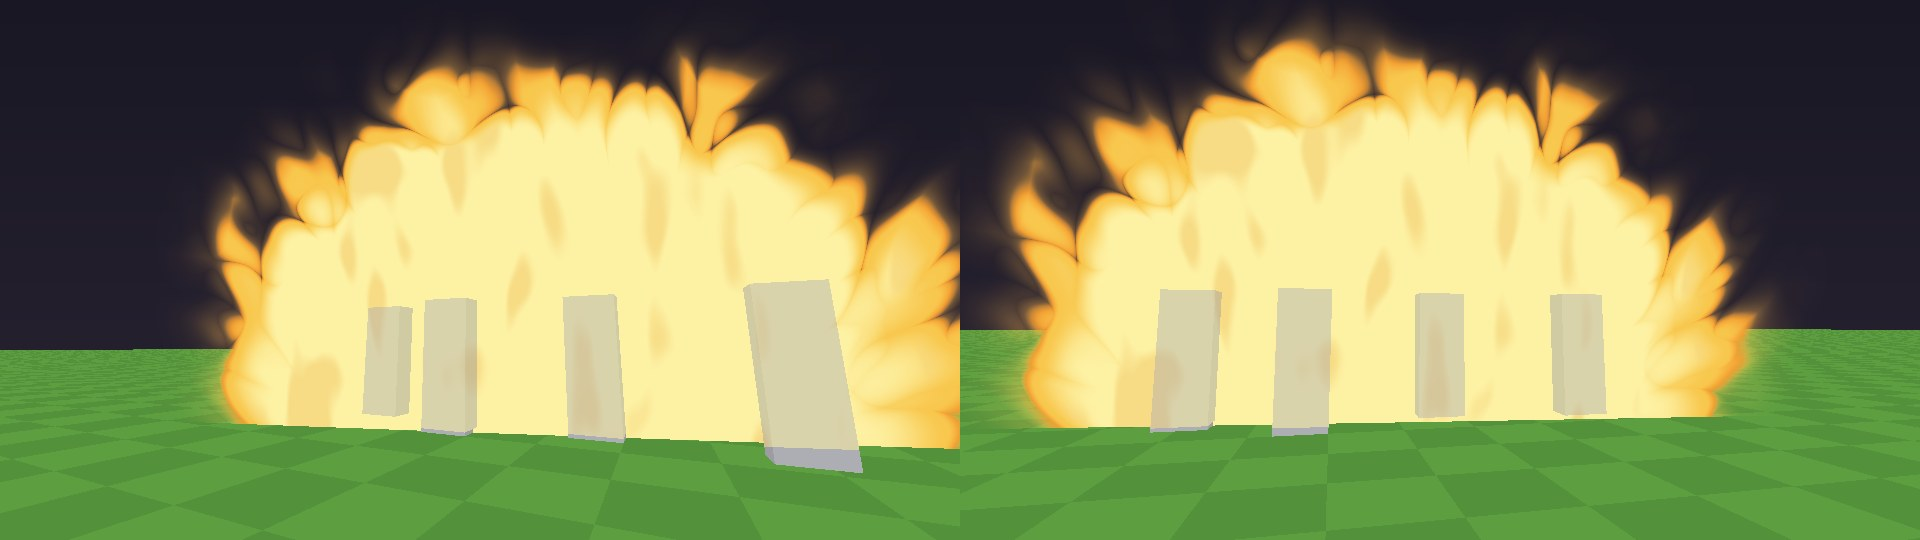
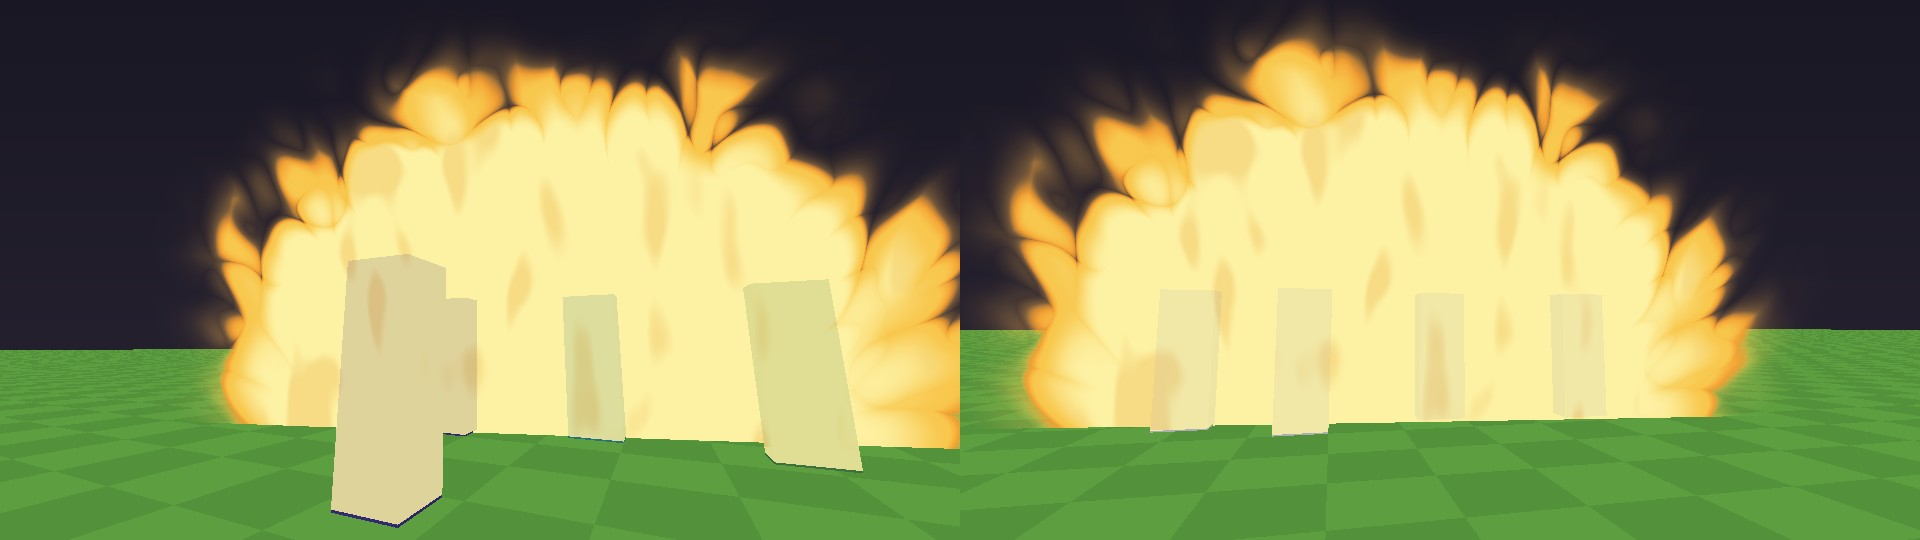
Mera anime: chorro de St. Elmo en olas, cruz fina de los dedos, víctimas tenues en la hoguera y estelas del Hiken tendidas
- El chorro dorado de St. Elmo (chorro con paleta 3) se dibuja plano: cuña dorada con olas que se rizan en los
  cantos y franjas pálidas que las siguen (2:09-2:10).
- La cruz de los dedos de Jūjika, con brazos de 1 a 6 (grosor entre 0,15 y 0,18 brazos).
- En la hoguera de Hidaruma los que arden se tapan en un 85 %, también por debajo de la lámina.
- Receta nueva de las estelas del Hiken (docs): casi tendidas, centro hasta 13 bloques a cada lado, dos diagonales.

Claude-Session: https://claude.ai/code/session_01TTf7fnrStK2iXDsozaVCTJ

diff --git a/docs/estilo-anime.md b/docs/estilo-anime.md
@@ -128,10 +128,12 @@ Paleta de cada forma cuando `VolStyle.y` es 0: bola 2 (el sol, 6), puño 1, colu
   paleta 13 es la cúpula roja del final de Entei: el centro en el suelo, para que se vea media esfera. Con la paleta
   17 es el sol mientras nace: la misma esfera con una orilla ancha de llamas pequeñas (3:03-3:08).
 - **Cruz (6)**: en anime hay dos, según el brazo (`prm.x`):
-  - **Menos de 0,8: la cruz de los dedos** (2:14). Un «+» de brazos iguales, gordo y liso, amarillo limón con el
+  - **Menos de 0,8: la cruz de los dedos** (2:14). Un «+» de brazos iguales, finos y lisos, amarillo limón con el
     centro pálido y mucho resplandor (paleta 7). Centrado un cuarto de brazo por encima del origen: va de −0,75 a
-    1,25 brazos en vertical y de −1 a 1 en horizontal. El grosor queda siempre entre 0,27 y 0,32 brazos, pida lo que pida el emisor. Medidas de la serie: brazo
-    0,35, justo delante de los dedos.
+    1,25 brazos en vertical y de −1 a 1 en horizontal. El grosor (medio ancho del brazo) queda siempre entre 0,15 y
+    0,18 brazos, pida lo que pida el emisor: cada brazo es unas seis veces más largo que ancho, como en el 2:14 (con
+    0,27 a 0,32, de cerca era un «+» gordo de botiquín). Medidas de la serie: brazo 0,35 a 0,45, justo delante de
+    los dedos. Referencia del banco: `docs/banco/cruz-dedos.jpg`.
   - **0,8 o más: la cruz de llamas** (2:22). La cruz latina de siempre (el palo de abajo, más largo), hecha de
     llamas pequeñas: una soga dorada de bultos con la orilla pálida y un resplandor ancho (paleta 18). Medidas: brazo
     1,8 a 2,2. El grosor queda siempre entre 0,10 y 0,13 brazos, pida lo que pida el emisor.
@@ -141,13 +143,18 @@ Paleta de cada forma cuando `VolStyle.y` es 0: bola 2 (el sol, 6), puño 1, colu
   el chorro que se abre de siempre (las llamas pequeñas). Con `prm.z` = 1 es el de primera persona: fino en la mano
   y abriéndose con la distancia, que visto desde los ojos es una franja rayada de la mano a donde se apunta (el huso,
   visto a lo largo, era una semilla); va con `nearFade` 0,45.
-- **Chorro (5) con la paleta 3: la banda dorada de St. Elmo** (2:09-2:10). Una masa dorada lisa con el canto en olas,
-  unas pocas líneas amarillo pálido `#fde68f` finas y largas tendidas a lo largo, a trechos (ni franjas anchas ni
-  manchas), y la punta redonda. `prm.z` (el grosor al salir, en partes del
-  final) decide la silueta: 0,65 para la banda ancha del barrido (largo 9 y radio 1,0 a 1,3), que es casi igual de
-  gruesa de punta a punta. La llama del antebrazo mientras carga (2:09) es este mismo chorro, corto y gordo, hacia
-  atrás (largo 3,2, radio 1,1 y `prm.z` 0,35). Una fila de bolas con la paleta 18 se probó y en el juego se veía
-  como una oruga de discos, mucho más lejos de la serie.
+- **Chorro (5) con la paleta 3: la banda dorada de St. Elmo** (2:08,5-2:10,5). En anime no se recorre como un
+  volumen: es un dibujo plano en una lámina que contiene el eje del chorro y mira a la cámara. Una cuña dorada que
+  sale de la mano con el grosor `prm.z` (en partes del final), se abre hasta un radio entero y acaba redonda; por
+  los cantos de arriba y de abajo, olas: brazos gordos que salen del canto inclinados hacia fuera de la mano y se
+  rizan hacia delante como una ola que rompe, con el hueco de cielo entre una y otra, que nacen cerca de la mano y
+  corren hacia fuera creciendo (una cada 0,6 radios de largo, entre 3 y 12 por canto). Dorada por dentro, pálida
+  `#fdeaa3` junto al contorno de cada ola y en franjas onduladas que siguen las olas. 0,65 para la banda ancha del
+  barrido (largo 9 y radio 1,0 a 1,3), que es casi igual de gruesa de punta a punta. La llama del antebrazo
+  mientras carga (2:09) es este mismo chorro, corto, que sale de la mano hacia atrás y hacia fuera del cuerpo (largo
+  3,2, radio 1,1 y `prm.z` 0,35; nunca hacia el hombro: entonces cruzaba el cuerpo y se veía una salchicha dorada
+  alrededor de Ace). Antes era el chorro recorrido, una salchicha lisa con cuatro líneas; una fila de bolas con la
+  paleta 18 se veía como una oruga de discos. Referencia del banco: `docs/banco/st-elmo.jpg`.
 - **Lanza (7)**: un trazo largo y limpio que se abre poco a poco desde una punta afilada, con dos rayas sueltas al
   lado. `prm.z` = 0: afilada por delante (las lanzas de Shiranui, 2:11). `prm.z` = 1: afilada por detrás y ancha por
   delante (las balas de Higan, 0:57). `prm.z` = 2: la columna de St. Elmo (2:11-2:12), afilada por delante pero que
@@ -175,8 +182,9 @@ Paleta de cada forma cuando `VolStyle.y` es 0: bola 2 (el sol, 6), puño 1, colu
   que por arriba y por los lados se abre en lenguas anchas separadas por muescas en punta: naranja en el filo,
   dorado un poco más adentro y luego pálido; por fuera, un resplandor corto que sobre el cielo oscuro se ve pardo,
   como en la serie. Por dentro, manchas doradas blandas y alargadas hacia arriba, como lenguas pequeñas, que suben.
-  Lo que hay dentro de la hoguera y no es el suelo (los que arden) se ve como una sombra a través del fuego, esté
-  delante o detrás de la lámina; para eso `VolStyle.z` (el segundo número de `MeraVolumes.palette(19, …)`) dice a
+  Lo que hay dentro de la hoguera y no es el suelo (los que arden) se ve como una sombra tenue a través del fuego
+  (el fuego los tapa en un 85 %; con un 55 % se veían enteros, solo desteñidos), esté delante o detrás de la lámina
+  o por debajo de ella (los pies); para eso `VolStyle.z` (el segundo número de `MeraVolumes.palette(19, …)`) dice a
   qué altura sobre el suelo está el centro (1,6); con 0 no hay sombras ni corte por el suelo. Con la cámara dentro,
   un velo pálido por toda la vista. Antes era una bola recorrida y salía como bolsas redondas con un filo duro.
   Una sola bola que los cubra a todos (centro en el medio del grupo, a 1,6 de alto; radio 4,5); con varias bolas
@@ -257,7 +265,7 @@ En estilo anime:
 
 | Técnica | Paleta | Cómo es en el vídeo |
 | --- | --- | --- |
-| Hiken | 1, 16 y 14 | Un puño enorme y redondo: masa roja, borde amarillo, líneas amarillas entre los dedos. Va dibujado encima de su cuerpo de fuego, con su propio contorno (0:32). Detrás, un cuerpo de fuego que se ensancha hasta el doble del puño (un cometa, 0:34), con el amarillo muy ancho (de lado se ve casi tanto amarillo como rojo) y el borde de dentro subiendo y bajando como las llamas, bandas amarillas anchas que cruzan la masa roja a lo largo y la parten en dos o tres manchas (0:33; las pinta el sombreador, solo en el cuerpo de fuego y no en el puño) y cintas amarillas finas que se rizan alrededor. Al salir del brazo, masas rojas con manchas negras (bolas con paleta 1, 0:24). El golpe es una media bola roja y limpia con el filo amarillo (bola con paleta 16, 0:36) y, para quien queda dentro, la pantalla roja con cuñas amarillas y esquirlas negras (otra bola en el mismo sitio con paleta 1 y `VolStyle.w` de 2 a 3, que solo pone el fotograma, 0:37; ese fotograma se dibuja el último de todos los volúmenes, para que ningún otro fuego lo tape). Después quedan tres segundos y medio de lo que deja el golpe (0:38-0:41, referencia del banco en `docs/banco/final-hiken.jpg`), colocado cada fotograma de cara a quien mira: con `v` la dirección horizontal de la cámara al golpe, `r` su derecha, `g` el suelo bajo el golpe y `s` la distancia horizontal de la cámara al golpe partida por 19 (entre 0,7 y 1,2), que multiplica todas las medidas. Un tronco rojo vertical que sube del golpe (lanza con paleta 14, ancho del borde 0,30 y `prm.z` = 2, largo 30, radio 1,4, centro a 15,25 sobre el suelo, apenas inclinada); siete estelas largas que se cruzan en aspa por todo el cielo a distintas alturas (lanzas con paleta 14, ancho del borde 0,30 y `prm.z` = 2, largo 36 a 48, radio 0,55 a 0,80, altura de 2 a 24, hasta 5 bloques a cada lado y de 1 por delante a 6 por detrás del golpe, con 18 grados de inclinación y 8 de giro como mucho, y tres en diagonal, la segunda, la cuarta y la sexta, a 22-32 grados); un aro fino y pálido, inclinado, a media altura del tronco (anillo con paleta 11, radio 6, alto 0,3 y medio grosor 0,14, a 10 sobre el suelo, con el eje girado 65 grados respecto a la cámara y levantado 0,2 radianes); y nueve bolas de polvo blanco a ras de suelo a los lados del tronco (bolas con `prm.y` = 1, radio 1,8 a 3). Antes eran 10 chorros con rumbo al azar, tres llamas finas y un tronco por donde pasó el puño, y desde atrás se veía un revoltijo; después siete chorros gordos y rojos, apiñados en una franja, con un tronco demasiado grueso; y después nueve estelas finas casi paralelas, que no se cruzaban como en el 0:38. El golpe del Hiken no se enfría en humo blanco: la bola sigue siendo fuego y se apaga pronto (ya no está cuando se ven los chorros). |
+| Hiken | 1, 16 y 14 | Un puño enorme y redondo: masa roja, borde amarillo, líneas amarillas entre los dedos. Va dibujado encima de su cuerpo de fuego, con su propio contorno (0:32). Detrás, un cuerpo de fuego que se ensancha hasta el doble del puño (un cometa, 0:34), con el amarillo muy ancho (de lado se ve casi tanto amarillo como rojo) y el borde de dentro subiendo y bajando como las llamas, bandas amarillas anchas que cruzan la masa roja a lo largo y la parten en dos o tres manchas (0:33; las pinta el sombreador, solo en el cuerpo de fuego y no en el puño) y cintas amarillas finas que se rizan alrededor. Al salir del brazo, masas rojas con manchas negras (bolas con paleta 1, 0:24). El golpe es una media bola roja y limpia con el filo amarillo (bola con paleta 16, 0:36) y, para quien queda dentro, la pantalla roja con cuñas amarillas y esquirlas negras (otra bola en el mismo sitio con paleta 1 y `VolStyle.w` de 2 a 3, que solo pone el fotograma, 0:37; ese fotograma se dibuja el último de todos los volúmenes, para que ningún otro fuego lo tape). Después quedan tres segundos y medio de lo que deja el golpe (0:38-0:41, referencia del banco en `docs/banco/final-hiken.jpg`), colocado cada fotograma de cara a quien mira: con `v` la dirección horizontal de la cámara al golpe, `r` su derecha, `g` el suelo bajo el golpe y `s` la distancia horizontal de la cámara al golpe partida por 19 (entre 0,7 y 1,2), que multiplica todas las medidas. Un tronco rojo vertical que sube del golpe (lanza con paleta 14, ancho del borde 0,30 y `prm.z` = 2, largo 30, radio 1,4, centro a 15,25 sobre el suelo, apenas inclinada); siete estelas largas que atraviesan todo el cielo casi tendidas, a distintas alturas, y se cruzan lejos del tronco (lanzas con paleta 14, ancho del borde 0,30 y `prm.z` = 2, largo 40 a 54, radio 0,60 a 0,90, altura de 2 a 24, con el centro hasta 13 bloques a cada lado y de 1 por delante a 6 por detrás del golpe, con 7 grados de inclinación y 8 de giro como mucho, y dos en diagonal, la segunda y la quinta, a 12-18 grados); un aro fino y pálido, inclinado, a media altura del tronco (anillo con paleta 11, radio 6, alto 0,3 y medio grosor 0,14, a 10 sobre el suelo, con el eje girado 65 grados respecto a la cámara y levantado 0,2 radianes); y nueve bolas de polvo blanco a ras de suelo a los lados del tronco (bolas con `prm.y` = 1, radio 1,8 a 3). Antes eran 10 chorros con rumbo al azar, tres llamas finas y un tronco por donde pasó el puño, y desde atrás se veía un revoltijo; después siete chorros gordos y rojos, apiñados en una franja, con un tronco demasiado grueso; después nueve estelas finas casi paralelas, que no se cruzaban como en el 0:38; y después siete con el centro a menos de 5 bloques del tronco y tres diagonales empinadas, que en el juego salían en estrella desde el tronco. El golpe del Hiken no se enfría en humo blanco: la bola sigue siendo fuego y se apaga pronto (ya no está cuando se ven los chorros). |
 | Kagerō | 15 y 2 | Un haz estrecho que acaba en punta, naranja con rayas rojas y el filo amarillo (chorro con radio pedido 2,2 o más, 0:02); al dar en el blanco, una nube blanca y, el primer medio segundo, bolas amarillas con el borde rojo anaranjado (bolas con paleta 2, de 1,6 a 2,4 de radio, 0:17). |
 | Higan | 11 | Cuñas amarillo pálido con el filo dorado blando: nacen en punta junto a Ace y se abren hacia delante (lanza con `prm.z` = 1, sin bola en la cabeza). |
 | Hibashira | 10, 9, 20 y 22 | Primero el remolino: un aro rojo que gira alrededor de Ace a la altura de la cintura, con llamas amarillas en el brazo (anillo con `prm.w` = 2), que va creciendo hasta ser casi todo llama amarilla pálida (`prm.w` de 2 a 2,49). Al salir la columna, quien está dentro ve la pantalla roja con llamas amarillas (1:14). Después el haz recto amarillo pálido, fino y alto (columna con radio pedido 2,1), pegado a él un muro de humo melocotón (anillo con `prm.w` = 1,25 y paleta 22) y detrás una masa roja con racimos de llamas amarillas (anillo con `prm.w` = 1,25 y paleta 20, 1:16-1:18). |
@@ -265,8 +273,8 @@ En estilo anime:
 | Hotarubi | 5 | Bolas lisas y redondas (no llamas), de 0,2 a 0,45 de radio: verdes en la orilla, casi blancas en el centro y con un halo verde suave. Una bola (forma 0) con paleta 5 sale ya así. |
 | Hidaruma | 12, 16, 3 y 19 | Sobre el que arde, unas 13 cuchillas de fuego afiladas, amarillas con el filo naranja y el centro pálido, sueltas, inclinadas hacia el mismo lado y repartidas por delante del cuerpo y a sus lados, de modo que el cuerpo se sigue viendo entre ellas (llamas con paleta 12, radio 0,14 a 0,20 y alto 1,2 a 1,7, con el borde en 0,16, 1:42). Con 22, más las del fuego que le queda prendido, en el juego salía una pared amarilla que tapaba a la víctima: mientras dura la técnica no se suman las cuchillas del fuego prendido. No hay bola roja a la vista: quien queda dentro ve la pantalla roja con llamas amarillas (una bola con paleta 16 y `VolStyle.w` de 2 a 3, que solo pone el fotograma, 1:42-1:43). Cuando prenden varios a la vez: un fogonazo pálido sobre cada uno (`VolStyle.w` en una bola con paleta 19 y radio 1,4; con la paleta 3 y radio 2 la hoguera se veía dorada y no pálida, 1:53) y después una hoguera amarillo pálido enorme que los envuelve a todos y deja adivinar sus siluetas (una bola con paleta 19 y `VolStyle.z` = 1,6, dibujada plana, 1:54-1:56; ver «Bola (0) con la paleta 19»). Dentro de la hoguera no se dibujan las cuchillas de cada víctima: se veían como un garabato naranja en medio del fuego pálido. |
 | Enjōmō | 3 | Un muro amarillo pálido que llena la pantalla. |
-| St. Elmo / Shiranui | 2, 3, 12 y 11 | Shiranui: una llama pequeña en cada mano, del tamaño de la mano (llama con paleta 2, radio 0,20 y alto 0,60, 1:59; con radio 0,32 y alto 0,95 eran más grandes que la cabeza, y una bola de radio 0,22 se veía como una diana), después los arcos naranja rojizo con el centro amarillo (2:00) y las lanzas, cometas amarillo vivo con el filo y el halo naranjas, anchos en la cabeza y en punta por detrás (lanza con `prm.z` = 1 y paleta 12, largo 4,5 y radio 0,45 a 0,55, 2:00,5-2:02). St. Elmo: mientras carga, una llama dorada de borde ondulado le sale del antebrazo hacia atrás y se va ensanchando (chorro con paleta 3, largo 3,2, radio 1,1 y `prm.z` 0,35, 2:09; las lanzas todavía no se ven); al soltar, el brazo barre y deja una banda dorada ancha que cruza por delante de Ace (chorro con paleta 3, largo, siguiendo a la mano, 2:10); las lanzas, columnas amarillo pálido muy largas y de ancho parejo, afiladas solo en la punta (lanza con `prm.z` = 2, paleta 11, largo 11 y radio 0,38, 2:11), que se clavan en el blanco y dejan fuego bajo en el suelo (2:12). |
-| Jūjika | 7, 11, 15, 18, 21 y 3 | Primero la cruz de los dedos: un «+» pequeño y gordo, amarillo limón, delante de las manos cruzadas (cruz con brazo 0,35, paleta 7, 2:14). De ella sale un haz fino amarillo pálido, casi transparente, que llega al blanco en medio segundo con la punta brillante (lanza con `prm.z` = 2, paleta 11 y radio 0,14; con 0,06 de lado era un hilo de un píxel, 2:15-2:16); después, por el haz corre una llamarada roja con el filo naranja y amarillo, alargada, que suelta jirones rojos (chorro o bolas con paleta 15, 2:16-2:17); nace 0,9 bloques por delante de las manos, para que vista desde atrás no tape a Ace. Donde llega, la cruz grande de llamas doradas (cruz con brazo 1,8 a 2,2, paleta 18, 2:22) y enseguida un estallido dorado en estrella, sin bola en el centro: cuatro brazos grandes y largos en línea con los de la cruz (lanzas con `prm.z` = 1, largo 6 y radio 1,4; con radio 2,0 era un erizo gordo y con 1,1 y sin llamas menores, agujas finas) y ocho llamas menores y finas entre ellos, dos en cada hueco (largo 3,2, radio 0,55), todos con la paleta 21 y casi en el plano de cara a quien la lanzó, con no más de 5 grados de inclinación (2:23). No es una cúpula ni lleva el fotograma del golpe. |
+| St. Elmo / Shiranui | 2, 3, 12 y 11 | Shiranui: una llama pequeña en cada mano, del tamaño de la mano (llama con paleta 2, radio 0,20 y alto 0,60, 1:59; con radio 0,32 y alto 0,95 eran más grandes que la cabeza, y una bola de radio 0,22 se veía como una diana), después los arcos naranja rojizo con el centro amarillo (2:00) y las lanzas, cometas amarillo vivo con el filo y el halo naranjas, anchos en la cabeza y en punta por detrás (lanza con `prm.z` = 1 y paleta 12, largo 4,5 y radio 0,45 a 0,55, 2:00,5-2:02). St. Elmo: mientras carga, una llama dorada de borde ondulado le sale del antebrazo hacia atrás y se va ensanchando (chorro con paleta 3 que sale de la mano hacia atrás y hacia fuera, largo 3,2, radio 1,1 y `prm.z` 0,35, 2:09; las lanzas todavía no se ven); al soltar, el brazo barre y deja una banda dorada ancha que cruza por delante de Ace (chorro con paleta 3, largo, siguiendo a la mano, 2:10); las lanzas, columnas amarillo pálido muy largas y de ancho parejo, afiladas solo en la punta (lanza con `prm.z` = 2, paleta 11, largo 11 y radio 0,38, 2:11), que se clavan en el blanco y dejan fuego bajo en el suelo (2:12). |
+| Jūjika | 7, 11, 15, 18, 21 y 3 | Primero la cruz de los dedos: un «+» pequeño de brazos finos, amarillo limón, delante de las manos cruzadas (cruz con brazo 0,35 a 0,45, paleta 7, 2:14). De ella sale un haz fino amarillo pálido, casi transparente, que llega al blanco en medio segundo con la punta brillante (lanza con `prm.z` = 2, paleta 11 y radio 0,14; con 0,06 de lado era un hilo de un píxel, 2:15-2:16); después, por el haz corre una llamarada roja con el filo naranja y amarillo, alargada, que suelta jirones rojos (chorro o bolas con paleta 15, 2:16-2:17); nace 0,9 bloques por delante de las manos, para que vista desde atrás no tape a Ace. Donde llega, la cruz grande de llamas doradas (cruz con brazo 1,8 a 2,2, paleta 18, 2:22) y enseguida un estallido dorado en estrella, sin bola en el centro: cuatro brazos grandes y largos en línea con los de la cruz (lanzas con `prm.z` = 1, largo 6 y radio 1,4; con radio 2,0 era un erizo gordo y con 1,1 y sin llamas menores, agujas finas) y ocho llamas menores y finas entre ellos, dos en cada hueco (largo 3,2, radio 0,55), todos con la paleta 21 y casi en el plano de cara a quien la lanzó, con no más de 5 grados de inclinación (2:23). No es una cúpula ni lleva el fotograma del golpe. |
 | Cuerpo en llamas | 3 | Una masa dorada y lisa con brazos de fuego rizados, la orilla en bultos, huecos de cielo y el filo pálido y blando, que sube un bloque o más por encima de la cabeza y sale un bloque a cada lado; el cuerpo se ve entero delante (2:29). Es un dibujo plano de cara a la cámara (ver «Forma nueva: 9, AURA»). Un volumen AURA (forma 9, radio 0,55, alto 2,2 y fuerza 1; con radio 0,45, alto 1,9 y fuerza 0,6 era una funda pequeña) en vez de las llamas sueltas de hombros, brazos y espalda. `prm.w` es una fase fija por jugador, no un reloj. |
 | Kyōkaen | 3 | Una cortina dorada, plana y alta, con llamas en punta por arriba y en los extremos, franjas pálidas difusas y líneas pálidas quebradas por dentro (2:46); de cerca, sobre todo rayos pálidos quebrados sobre el dorado (2:44). Los tramos de terreno llano seguidos se juntan en un solo muro (ver «Muro (4)»). El vapor, blanco plano. |
 | Dai Enkai | 2 | Primero un aro fino de fuego alrededor de Ace, de bloque y medio de radio (2:58); enseguida un disco naranja plano, pegado al suelo, con el centro liso, dos aros amarillos gordos en la mitad de fuera y la orilla naranja en llamitas pequeñas, de unos tres bloques y medio de radio, con Ace de pie en el centro y sin hueco a sus pies (anillo con `prm.w` = 0, radio 1,0, medio grosor 1,5 y alto 0,35, 2:59; con el grosor igual al radio quedaba un agujero en el centro). Después crece y se levantan las llamas rojas y amarillas con el centro pálido. |
